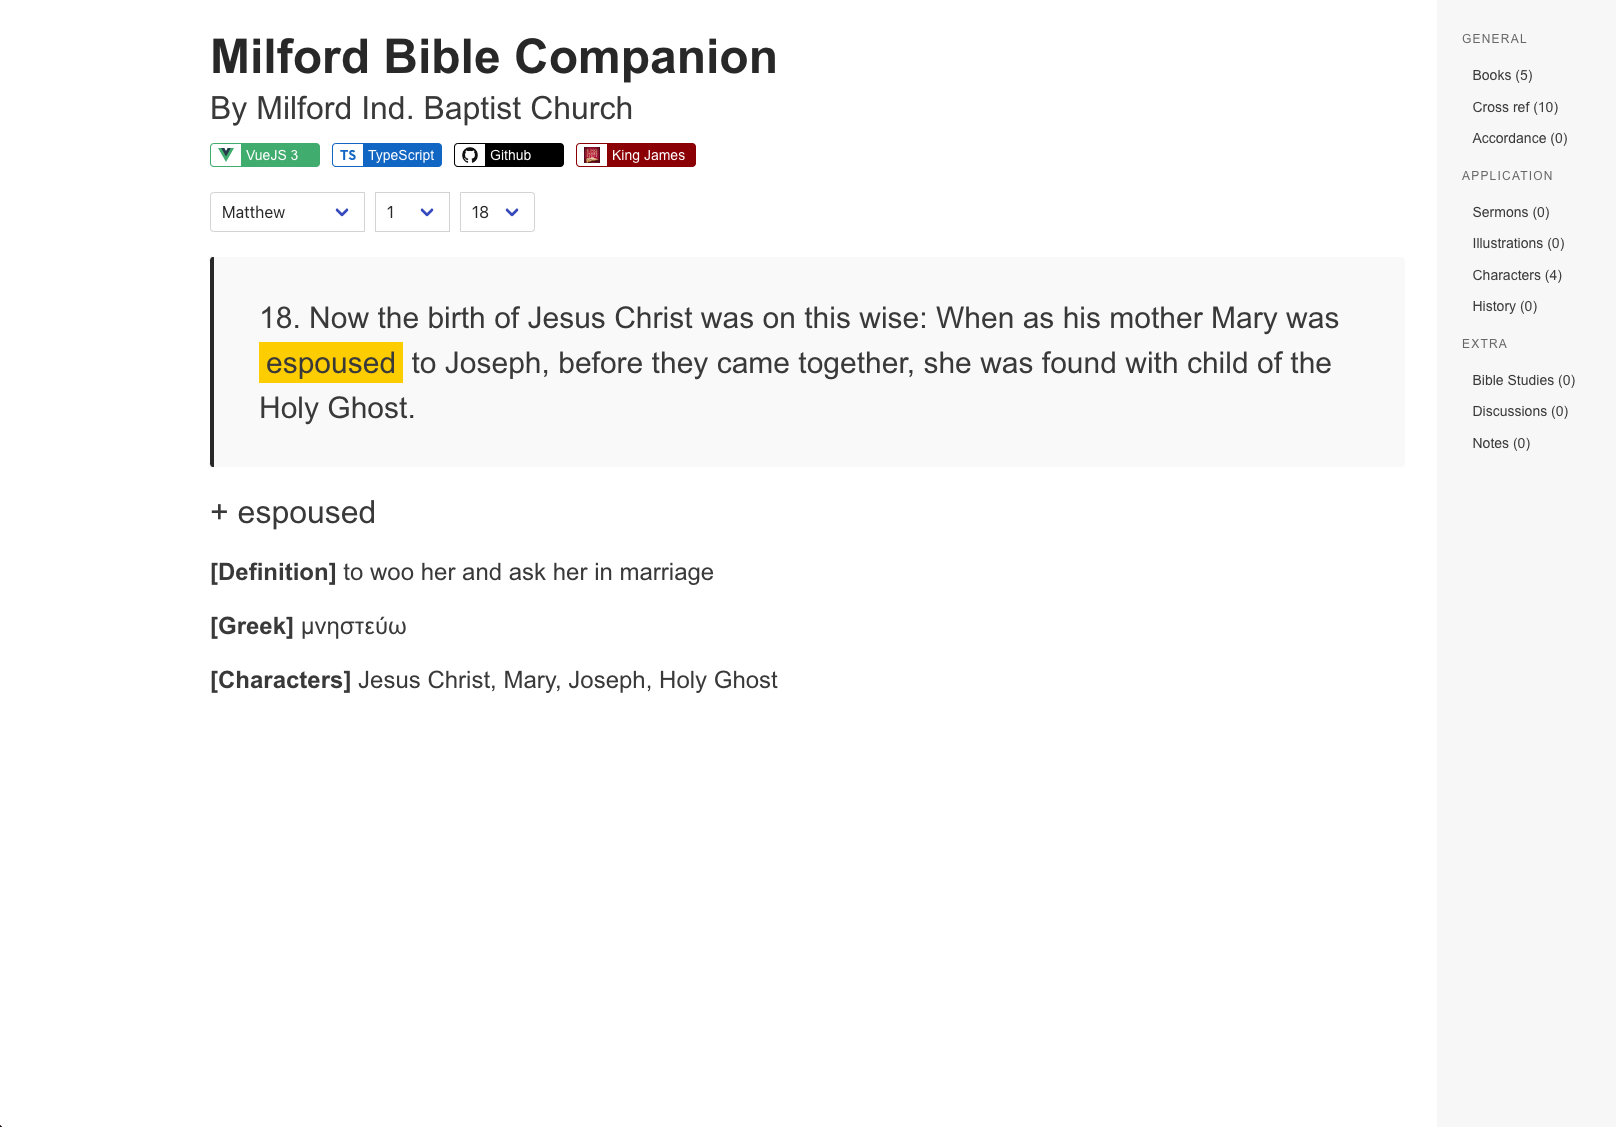
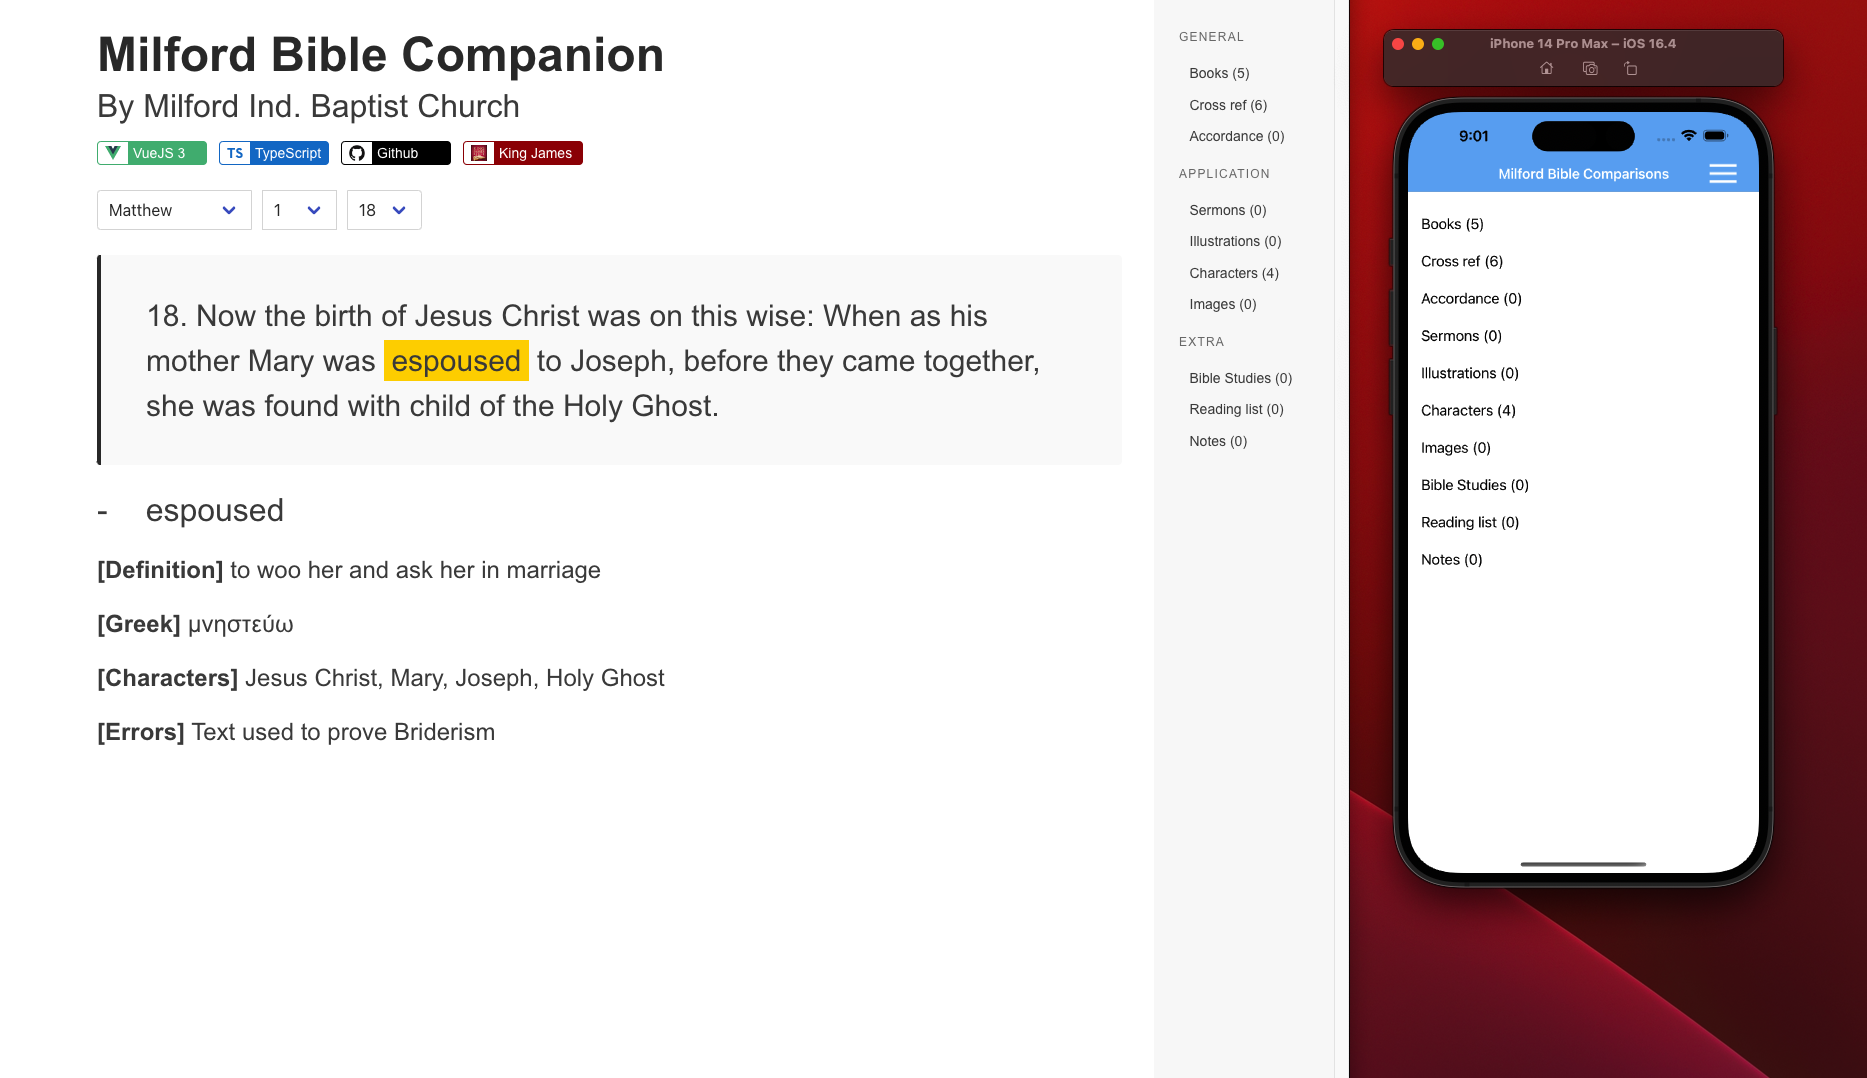
Update screenshot

diff --git a/src/views/StudyView.vue b/src/views/StudyView.vue
@@ -16,6 +16,135 @@
           <Test msg="hello world" name="Hello world" />
         </div>
   	</div>
+    <!--
+    <div style="height: 25px;"></div>
+    <div style="padding:0 50px 0 0">
+      <div class="tabs">
+        <ul>
+          <li class="is-active"><a>Images</a></li>
+          <li><a>Audio</a></li>
+          <li><a>Videos</a></li>
+          <li><a>Documents</a></li>
+        </ul>
+      </div>
+      <div class="columns is-multiline">
+        <div class="column is-one-quarter-desktop is-half-tablet">
+          <div class="card">
+              <div class="card-image">
+                  <figure class="image is-3by2">
+                    <img src="https://unsplash.it/300/200/?random&pic=1" alt="">
+                  </figure>
+                  <div class="card-content is-overlay is-clipped">
+                    <span class="tag">
+                      Image Title
+                    </span>       
+                  </div>
+              </div>
+              <footer class="card-footer">
+                  <a class="card-footer-item">
+                    Image of....
+                  </a>
+              </footer>
+          </div>
+        </div>
+        <div class="column is-one-quarter-desktop is-half-tablet">
+          <div class="card">
+              <div class="card-image">
+                  <figure class="image is-3by2">
+                    <img src="https://unsplash.it/300/200/?random&pic=2" alt="">
+                  </figure>
+                  <div class="card-content is-overlay is-clipped">
+                    <span class="tag">
+                      Image Title
+                    </span>       
+                  </div>
+              </div>
+              <footer class="card-footer">
+                  <a class="card-footer-item">
+                    Image of....
+                  </a>
+              </footer>
+          </div>
+        </div>  
+        <div class="column is-one-quarter-desktop is-half-tablet">
+          <div class="card">
+              <div class="card-image">
+                  <figure class="image is-3by2">
+                    <img src="https://unsplash.it/300/200/?random&pic=3" alt="">
+                  </figure>
+                  <div class="card-content is-overlay is-clipped">
+                    <span class="tag">
+                      Image Title
+                    </span>       
+                  </div>
+              </div>
+              <footer class="card-footer">
+                  <a class="card-footer-item">
+                    Image of....
+                  </a>
+              </footer>
+          </div>
+        </div>
+        <div class="column is-one-quarter-desktop is-half-tablet">
+          <div class="card">
+              <div class="card-image">
+                  <figure class="image is-3by2">
+                    <img src="https://unsplash.it/300/200/?random&pic=4" alt="">
+                  </figure>
+                  <div class="card-content is-overlay is-clipped">
+                    <span class="tag">
+                      Image Title
+                    </span>       
+                  </div>
+              </div>
+              <footer class="card-footer">
+                  <a class="card-footer-item">
+                    Image of....
+                  </a>
+              </footer>
+          </div>
+        </div>
+        <div class="column is-one-quarter-desktop is-half-tablet">
+          <div class="card">
+              <div class="card-image">
+                  <figure class="image is-3by2">
+                    <img src="https://unsplash.it/300/200/?random&pic=5" alt="">
+                  </figure>
+                  <div class="card-content is-overlay is-clipped">
+                    <span class="tag">
+                      Image Title
+                    </span>       
+                  </div>
+              </div>
+              <footer class="card-footer">
+                  <a class="card-footer-item">
+                    Image of....
+                  </a>
+              </footer>
+          </div>
+        </div>
+        <div class="column is-one-quarter-desktop is-half-tablet">
+          <div class="card">
+              <div class="card-image">
+                  <figure class="image is-3by2">
+                    <img src="https://unsplash.it/300/200/?random&pic=6" alt="">
+                  </figure>
+                  <div class="card-content is-overlay is-clipped">
+                    <span class="tag">
+                      Image Title
+                    </span>       
+                  </div>
+              </div>
+              <footer class="card-footer">
+                  <a class="card-footer-item">
+                    Image of....
+                  </a>
+              </footer>
+          </div>
+        </div>
+      </div>
+    </div>
+    -->
   </main>
 </template>
 

diff --git a/src/components/Selector.vue b/src/components/Selector.vue
@@ -23,13 +23,18 @@
 				    </select>
 				  </div>
 				</div>
-			  <div class="control">
+			  <div class="control" style="margin: 0 10px 0 0">
 			    <div class="select">
 				    <select v-model="verseRef" placeholder="Select" v-on:change="setRefData" style="width: 75px">
 				      <option v-for="verse in getVerses()" :label="verse" :value="verse" />
 				    </select>
 				  </div>
 				</div>
+				<!--
+		    <audio controls preload="none" style="display: block; width: 300px; height: 40px">
+    			<source type="audio/mpeg" src="https://www.kingjamesbibleonline.org/mp3/40_Matthew/4_001_Matthew01_KJV.mp3">
+  			</audio>
+  			-->
 			</div>
     </div>
 		<article class="message is-dark" style="margin: 25px 0 0 0">

diff --git a/src/components/SideNav.vue b/src/components/SideNav.vue
@@ -24,14 +24,14 @@
 		    <li><a>Sermons (0)</a></li>
 		    <li><a>Illustrations (0)</a></li>
 		    <li><a>Characters ({{charactersCount}})</a></li>
-		    <li><a>History (0)</a></li>
+		    <li><a>Images (0)</a></li>
 		  </ul>
 		  <p class="menu-label">
 		    Extra
 		  </p>
 		  <ul class="menu-list">
 		    <li><a>Bible Studies (0)</a></li>
-		    <li><a>Discussions (0)</a></li>
+		    <li><a>Reading list (0)</a></li>
 		    <li><a>Notes (0)</a></li>
 		  </ul>
 		</aside>
